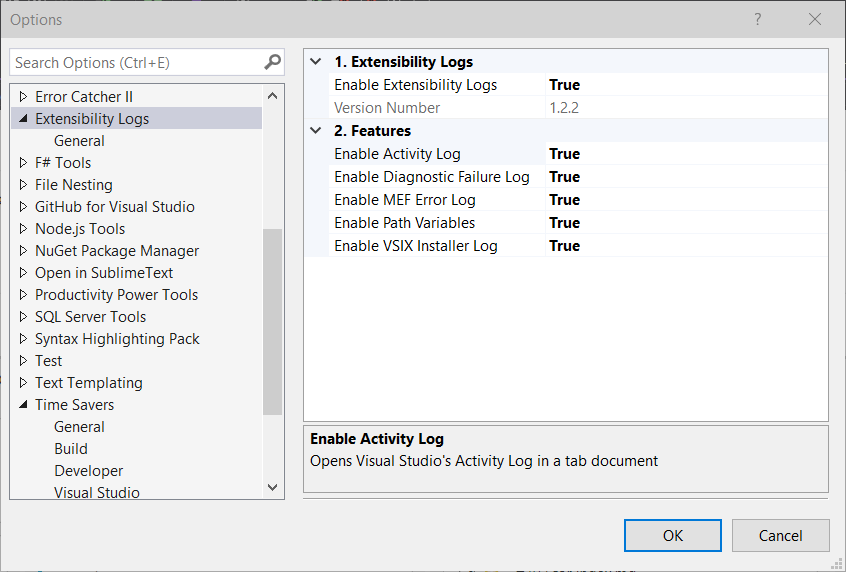
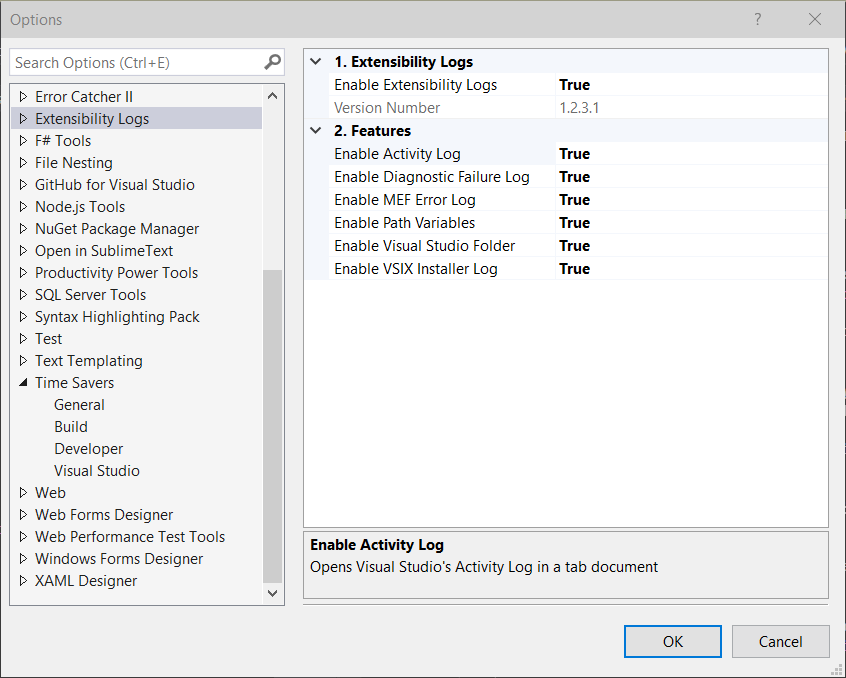
feat(commands): add VisualStudioFolderCommand

Changed region(s): [[0.0, 0.0, 1.0, 0.9808], [0.9835, 0.9808, 1.0, 1.0], [0.0, 0.9808, 0.0307, 1.0]]

diff --git a/src/vsix/Commands/VisualStudioFolderCommand.cs b/src/vsix/Commands/VisualStudioFolderCommand.cs
@@ -1,0 +1,32 @@
+using Microsoft.VisualStudio.Shell;
+using System.Diagnostics;
+
+namespace ExtensibilityLogs.Commands
+{
+    using Luminous.Code.VisualStudio.Commands;
+    using Luminous.Code.VisualStudio.Packages;
+
+    internal sealed class VisualStudioFolderCommand : PackageCommand
+    {
+        private static string Path
+            => $"{Package.UserDataPath}";
+
+        private VisualStudioFolderCommand(PackageBase package)
+            : base(package, PackageIds.VisualStudioFolderCommand)
+        { }
+
+        public static void Instantiate(PackageBase package)
+            => Instantiate(new VisualStudioFolderCommand(package));
+
+        protected override bool CanExecute
+            => base.CanExecute && PackageClass.Options.VisualStudioFolderCommandEnabled;
+
+        protected override void OnExecute(OleMenuCommand command)
+            => ExecuteCommand()
+                .ShowProblem()
+                .ShowInformation();
+
+        private static CommandResult ExecuteCommand()
+            => Package?.OpenFolder(Path, problem: "Visual Studio folder not found");
+    }
+}

diff --git a/src/vsix/Package.cs b/src/vsix/Package.cs
@@ -30,8 +30,9 @@ namespace ExtensibilityLogs
         public const int ActivityLogCommand = 0x0100;
         public const int DiagnosticLogCommand = 0x0105;
         public const int MefErrorLogCommand = 0x0110;
-        public const int VsixInstallerLogCommand = 0x0112;
-        public const int PathVariablesCommand = 0x0115;
+        public const int VsixInstallerLogCommand = 0x0120;
+        public const int VisualStudioFolderCommand = 0x0125;
+        public const int PathVariablesCommand = 0x0130;
         public const int PackageOptionsCommand = 0x0150;
     }
 }

diff --git a/src/options/Pages/GeneralDialogPage.cs b/src/options/Pages/GeneralDialogPage.cs
@@ -47,5 +47,10 @@ namespace ExtensibilityLogs.Options.Pages
         [DisplayName(Enable + Space + PathVariables)]
         [Description("Displays Window's current path variables in a tab document")]
         public bool PathVariablesCommandEnabled { get; set; } = true;
+
+        [Category(H2 + Features)]
+        [DisplayName(Enable + Space + VisualStudioFolder)]
+        [Description("Opens the current Visual Studio instance's folder")]
+        public bool VisualStudioFolderCommandEnabled { get; set; } = true;
     }
 }

diff --git a/src/vsix/source.extension.cs b/src/vsix/source.extension.cs
@@ -11,7 +11,7 @@ namespace ExtensibilityLogs
         public const string Name = "Extensibility Logs";
         public const string Description = @"Quickest & easiest way to view extensibility logs!";
         public const string Language = "en-US";
-        public const string Version = "1.2.3";
+        public const string Version = "1.2.3.1";
         public const string Author = "Yann Duran";
         public const string Tags = "Visual Studio;extensibility;logs;productivity;yannduran;yd;Yann Duran";
     }

diff --git a/src/options/Constants/Constants.cs b/src/options/Constants/Constants.cs
@@ -22,6 +22,7 @@
         public const string DiagnosticLog = "Diagnostic Failure Log";
         public const string MefErrorLog = "MEF Error Log";
         public const string VsixInstallerLog = "VSIX Installer Log";
+        public const string VisualStudioFolder = "Visual Studio Folder";
         public const string PathVariables = "Path Variables";
     }
 }

diff --git a/src/vsix/Package.class.cs b/src/vsix/Package.class.cs
@@ -41,6 +41,7 @@ namespace ExtensibilityLogs
             DiagnosticLogCommand.Instantiate(this);
             MefErrorLogCommand.Instantiate(this);
             VsixInstallerLogCommand.Instantiate(this);
+            VisualStudioFolderCommand.Instantiate(this);
             PathVariablesCommand.Instantiate(this);
         }
     }

diff --git a/docs-source/features.md b/docs-source/features.md
@@ -12,17 +12,20 @@ Each of the logs can be individually disabled, or all logs disabled together.
 
 ### Activity Log
 
-Opens Visual Studio's _Activity Log_ in a tab in Visual Studio, without having to first remember where the file is stored,
+Opens Visual Studio's _Activity Log_ in a tab in Visual Studio,
+without having to first remember where the file is stored,
 and then open it in your editor of choice.
 
 ### Diagnostic Failure Log
 
-Opens MSBuild's latest _Diagnostic Failure Log_ in a tab in Visual Studio, without knowing how to find it first, 
+Opens MSBuild's latest _Diagnostic Failure Log_ in a tab in Visual Studio,
+without knowing how to find it first, 
 and then open it in your editor of choice.
 
 ### MEF Error Log
 
-Opens Visual Studio's _MEF Error Log_ in a tab in Visual Studio, without having to search for it,
+Opens Visual Studio's _MEF Error Log_ in a tab in Visual Studio,
+without having to search for it,
 and then open it in your editor of choice.
 
 ### VSIX Installer Log
@@ -30,16 +33,25 @@ and then open it in your editor of choice.
 Opens the latest _VSIX Installer Log_ in a tab in Visual Studio, scrambling to find it,
 and then open it in your editor of choice.
 
+## Tools
+
+### Visual Studio Folder
+
+Opens the *current Visual Studio instance's folder* in a *File Explorer* window,
+without having to first remember the location of the folder,
+and then open it in a File Explorer window.
+
 ### Path Variables
 
-Displays Windows' current _search paths for executable files_ in a tab in Visual Studio, without having to open a command prompt.
+Displays Windows' current _search paths for executable files_ in a tab in Visual Studio,
+without having to open a command prompt.
 
 A future update will allow adding, removing, and re-ordering of the variables, inside , 
 without having to use Windows' _Settings_ app.
 
 ## Options
 
-Any logs that have been disabled will still appear on the toolbar, but will be inactive,
+Any logs/tools that have been disabled will still appear on the toolbar, but will be inactive,
 but they won't appear in the menu.
 The toolbar buttons can be hidden by removing them from the _Extensibility Logs_ toolbar.
 
@@ -71,6 +83,11 @@ to `false`.
 ### Enable VSIX Installer Log
 
 The _VSIX Installer Log_ feature can be disabled by setting _Tools | Options | Extensibility Logs | Enable MEF Error Log_
+to `false`.
+
+### Enable Visual Studio Folder
+
+The _Visual Studio Folder_ feature can be disabled by setting _Tools | Options | Extensibility Logs | Enable Open Visual Studio Folder_
 to `false`.
 
 ### Enable Path Variables
